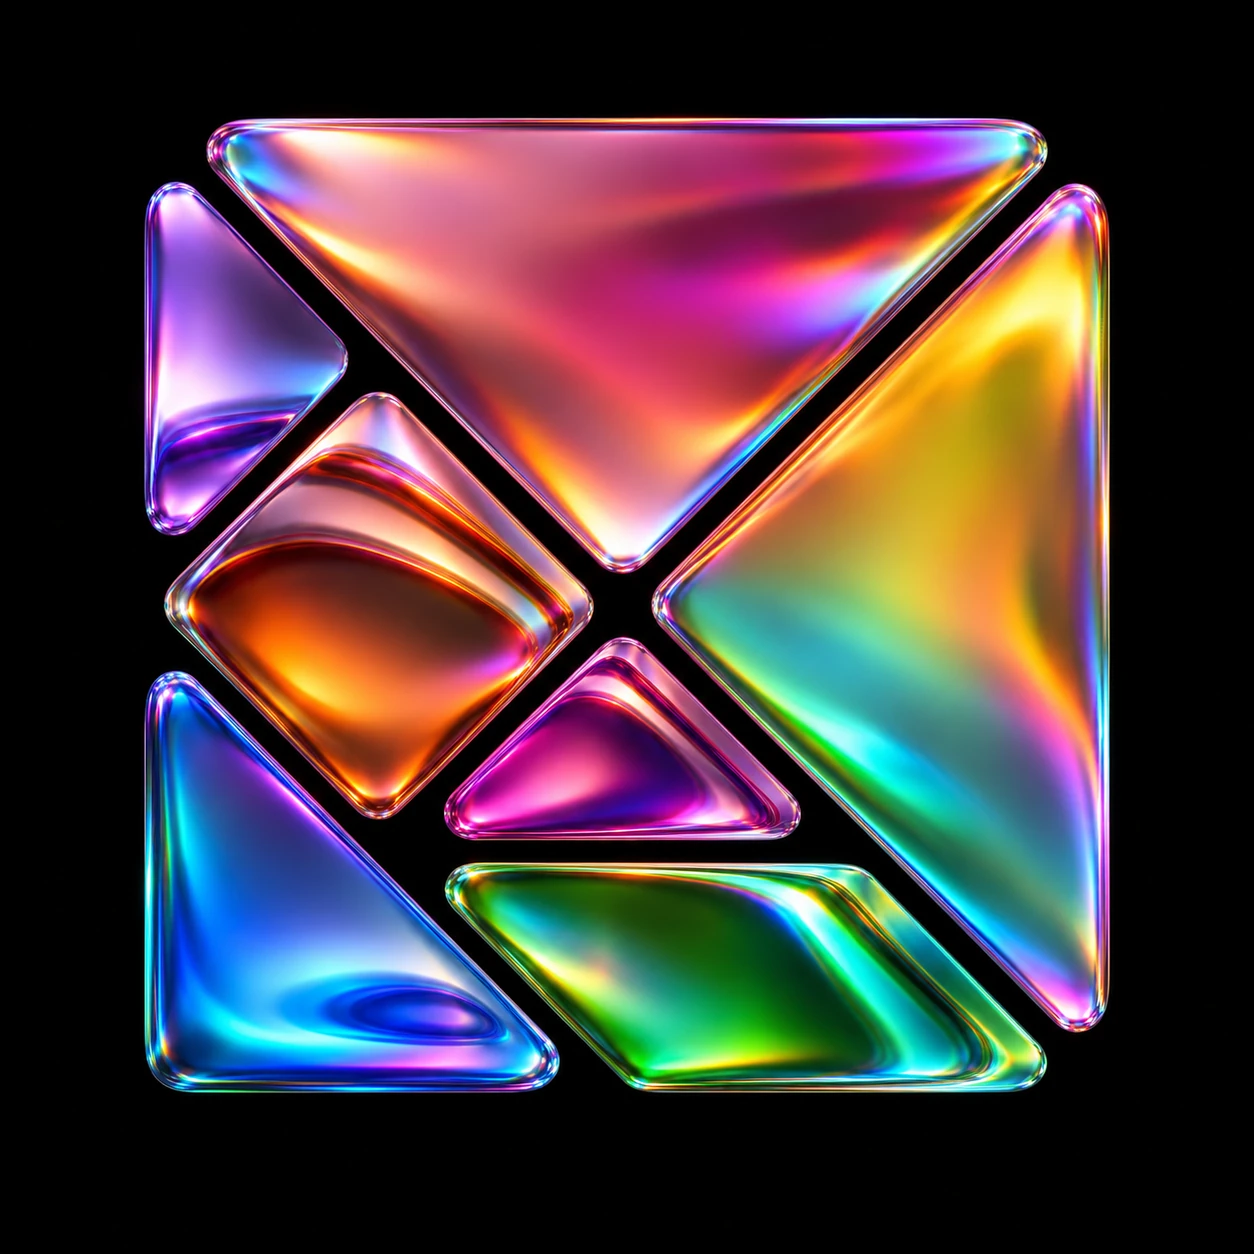
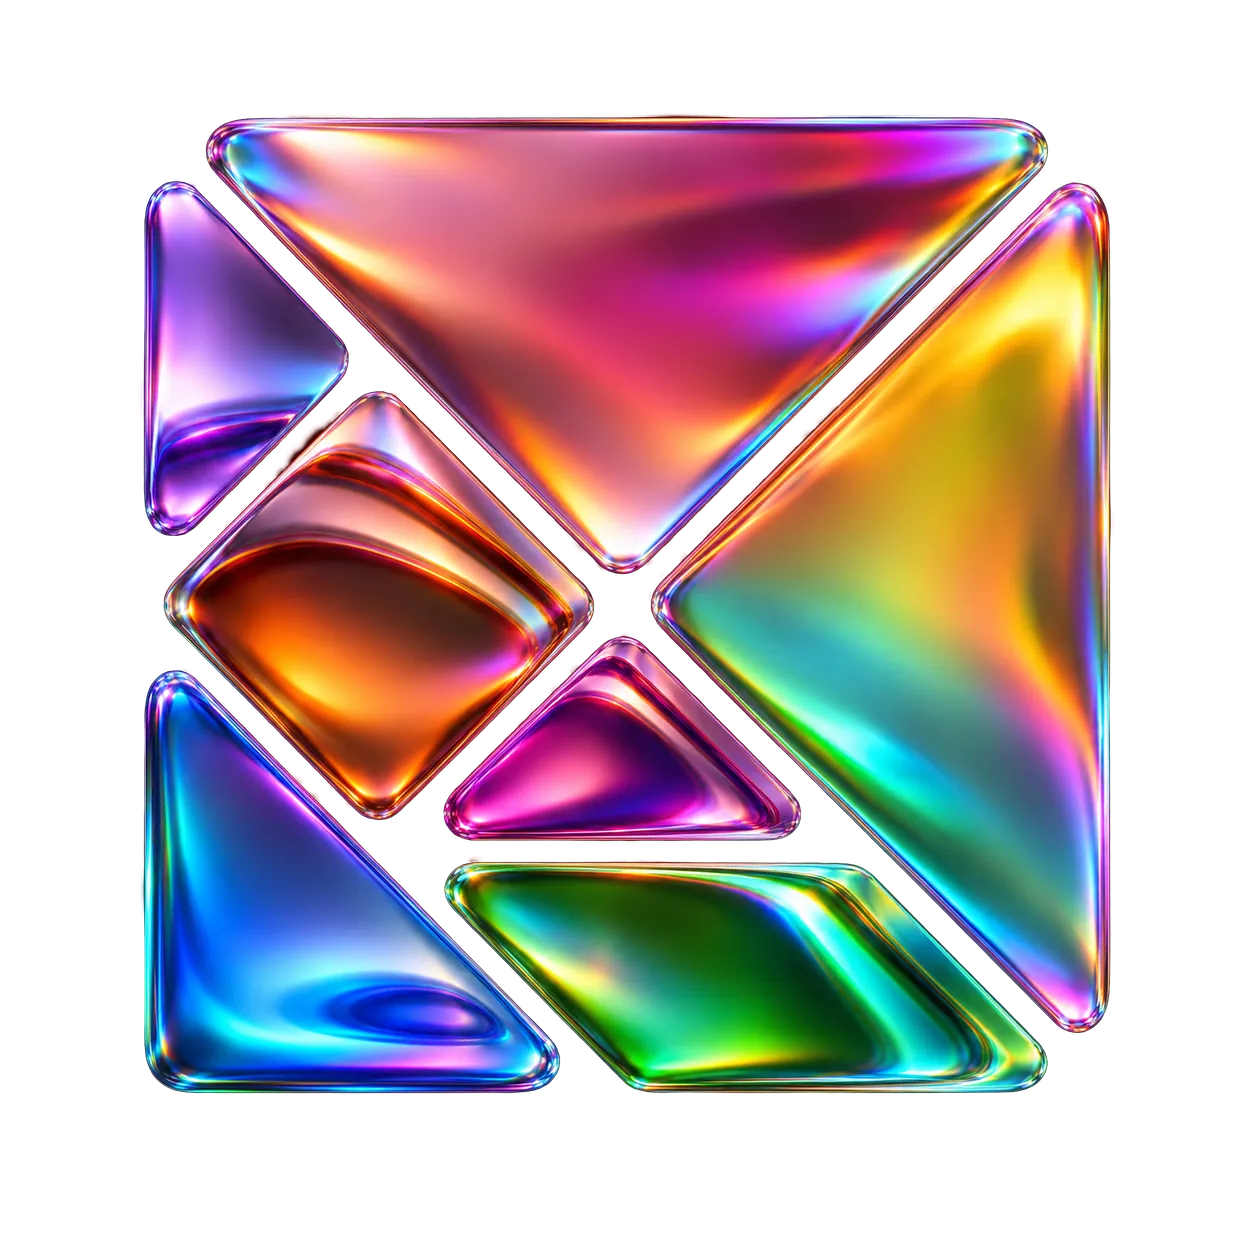
feat(www): show the page background behind the launch header art

diff --git a/apps/www/components/launch-header-art-renderer.ts b/apps/www/components/launch-header-art-renderer.ts
@@ -90,7 +90,8 @@ vec3 fromOklab(vec3 l){
   lms = lms * lms * lms;
   return mat3(4.0767416621, -1.2684380046, -0.0041960863, -3.3077115913, 2.6097574011, -0.7034186147, 0.2309699292, -0.3413193965, 1.7076147010) * lms;
 }
-vec3 shade(vec2 uv){
+// Returns the straight (not premultiplied) colour and its alpha.
+vec4 shade(vec2 uv){
   // each piece is its own layer: it breathes on its own rhythm and drifts slightly outward as it breathes,
   // so the gaps between pieces gently open and close. Find which piece (if any) is drawn at this pixel.
   float k = 0.0; float breath = 0.0; vec2 uvs = uv;
@@ -106,7 +107,9 @@ vec3 shade(vec2 uv){
   float piece = step(0.5, k);
   float ph = k * 2.39996;
   float sp = 0.8 + 0.35 * fract(k * 0.618);
-  vec3 src = piece > 0.5 ? texture2D(uImg, uvs).rgb : vec3(0.0);
+  // the texture is premultiplied, so filtering doesn't darken soft edges; the effects work on the straight colour
+  vec4 texel = piece > 0.5 ? texture2D(uImg, uvs) : vec4(0.0);
+  vec3 src = texel.a > 0.0 ? texel.rgb / texel.a : vec3(0.0);
   vec3 lab = oklab(toLin(src));
   // lazy breathing: a slow rise and fall in brightness and colour depth, per piece
   lab.x *= 1.0 + 0.08 * uBreath * breath * piece;
@@ -121,12 +124,13 @@ vec3 shade(vec2 uv){
   float pos = mod(uTime * 0.09, 1.8) - 0.4 + uMouse.x * 0.12 + uMouse.y * 0.08;
   float band = exp(-pow((dot(uv, dir) - pos) / 0.06, 2.0));
   col = 1.0 - (1.0 - col) * (1.0 - vec3(0.42, 0.40, 0.44) * band * smoothstep(0.1, 0.8, lab.x) * uSweep * piece);
-  return toSrgb(col);
+  return vec4(toSrgb(col), texel.a);
 }
 void main(){
   vec2 uv = (vec2(gl_FragCoord.x, uRes.y - gl_FragCoord.y) - uCorner) / uSide;
   if (uv.x < 0.0 || uv.y < 0.0 || uv.x > 1.0 || uv.y > 1.0) { gl_FragColor = vec4(0.0); return; }
-  vec3 outc = shade(uv);
+  vec4 base = shade(uv);
+  vec3 outc = base.rgb * base.a; float outa = base.a;
   // pixelation, per piece: fine pixels grow across a piece from its seed
   float pa = 0.0, ps = uPeak;
   vec2 px0 = vec2(gl_FragCoord.x, uRes.y - gl_FragCoord.y) - uCorner;
@@ -140,9 +144,12 @@ void main(){
     vec2 px = vec2(gl_FragCoord.x, uRes.y - gl_FragCoord.y) - uCorner;
     vec2 cellCentre = (floor(px / ps) + 0.5) * ps / uSide;
     float mixAmt = smoothstep(0.0, 1.0, pa);   // fixed fine pixels, faded in and out: no jumping grid
-    outc = mix(outc, shade(cellCentre), mixAmt);
+    vec4 cellShade = shade(cellCentre);
+    outc = mix(outc, cellShade.rgb * cellShade.a, mixAmt);
+    outa = mix(outa, cellShade.a, mixAmt);
   }
-  gl_FragColor = vec4(clamp(outc, 0.0, 1.0), 1.0);
+  vec3 straight = outa > 0.0 ? outc / outa : vec3(0.0);
+  gl_FragColor = vec4(clamp(straight, 0.0, 1.0) * outa, outa);
 }`
 
 const VERTEX_SHADER =
@@ -320,7 +327,7 @@ export function startLaunchHeaderArt({
   onFailure,
 }: LaunchHeaderArtOptions): (() => void) | null {
   const gl = canvas.getContext("webgl", {
-    premultipliedAlpha: false,
+    premultipliedAlpha: true,
     antialias: true,
   })
   if (!gl) return null
@@ -542,6 +549,7 @@ export function startLaunchHeaderArt({
     gl.texParameteri(gl.TEXTURE_2D, gl.TEXTURE_MAG_FILTER, gl.LINEAR)
     gl.texParameteri(gl.TEXTURE_2D, gl.TEXTURE_WRAP_S, gl.CLAMP_TO_EDGE)
     gl.texParameteri(gl.TEXTURE_2D, gl.TEXTURE_WRAP_T, gl.CLAMP_TO_EDGE)
+    gl.pixelStorei(gl.UNPACK_PREMULTIPLY_ALPHA_WEBGL, true)
     gl.texImage2D(gl.TEXTURE_2D, 0, gl.RGBA, gl.RGBA, gl.UNSIGNED_BYTE, img)
     gl.uniform1i(U.uImg, 0)
     gl.uniform1i(U.uIds, 1)

diff --git a/apps/www/components/launch-header-art.tsx b/apps/www/components/launch-header-art.tsx
@@ -50,31 +50,29 @@ export function LaunchHeaderArt() {
   const animated = motionAllowed && state !== "failed"
 
   return (
-    <div className="bg-black">
-      <div className="relative mx-auto aspect-square w-full max-w-md">
-        {!(animated && state === "ready") && (
-          <picture>
-            <source media={reducedMotion} srcSet="/pliant-hero-1254.webp" />
-            {/* Sized like the animation, which draws the art at 98% of the square. */}
-            <img
-              src="/pliant-hero-1254.webp"
-              srcSet="/pliant-hero-1254.webp 1x, /pliant-hero-2508.webp 2x"
-              alt={label}
-              width={1254}
-              height={1254}
-              fetchPriority="high"
-              className="absolute top-[1%] left-[1%] block size-[98%]"
-            />
-          </picture>
-        )}
-        {animated && (
-          <LaunchHeaderArtCanvas
-            label={label}
-            onReady={onReady}
-            onFailure={onFailure}
+    <div className="relative mx-auto aspect-square w-full max-w-md">
+      {!(animated && state === "ready") && (
+        <picture>
+          <source media={reducedMotion} srcSet="/pliant-hero-1254.webp" />
+          {/* Sized like the animation, which draws the art at 98% of the square. */}
+          <img
+            src="/pliant-hero-1254.webp"
+            srcSet="/pliant-hero-1254.webp 1x, /pliant-hero-2508.webp 2x"
+            alt={label}
+            width={1254}
+            height={1254}
+            fetchPriority="high"
+            className="absolute top-[1%] left-[1%] block size-[98%]"
           />
-        )}
-      </div>
+        </picture>
+      )}
+      {animated && (
+        <LaunchHeaderArtCanvas
+          label={label}
+          onReady={onReady}
+          onFailure={onFailure}
+        />
+      )}
     </div>
   )
 }

diff --git a/apps/www/e2e/launch-header-art.spec.ts b/apps/www/e2e/launch-header-art.spec.ts
@@ -113,3 +113,29 @@ test("draws nothing while scrolled out of view", async ({ page }) => {
   await art(page).scrollIntoViewIfNeeded()
   await expect.poll(() => draws(page)).toBeGreaterThan(hidden)
 })
+
+for (const reducedMotion of ["no-preference", "reduce"] as const) {
+  test(`shows the page background around the art (${reducedMotion} motion)`, async ({
+    page,
+  }) => {
+    await page.emulateMedia({ colorScheme: "light", reducedMotion })
+    await page.goto(post)
+    if (reducedMotion === "no-preference") {
+      await expect
+        .poll(() => art(page).evaluate((element) => element.tagName))
+        .toBe("CANVAS")
+    }
+    const box = await art(page).boundingBox()
+    if (!box) throw new Error("The art has no layout box")
+
+    // The art's corner and the page just outside it look the same.
+    const size = { width: 4, height: 4 }
+    const corner = await page.screenshot({
+      clip: { x: box.x + 2, y: box.y + 2, ...size },
+    })
+    const outside = await page.screenshot({
+      clip: { x: box.x - 20, y: box.y + 2, ...size },
+    })
+    expect(corner.equals(outside)).toBe(true)
+  })
+}
